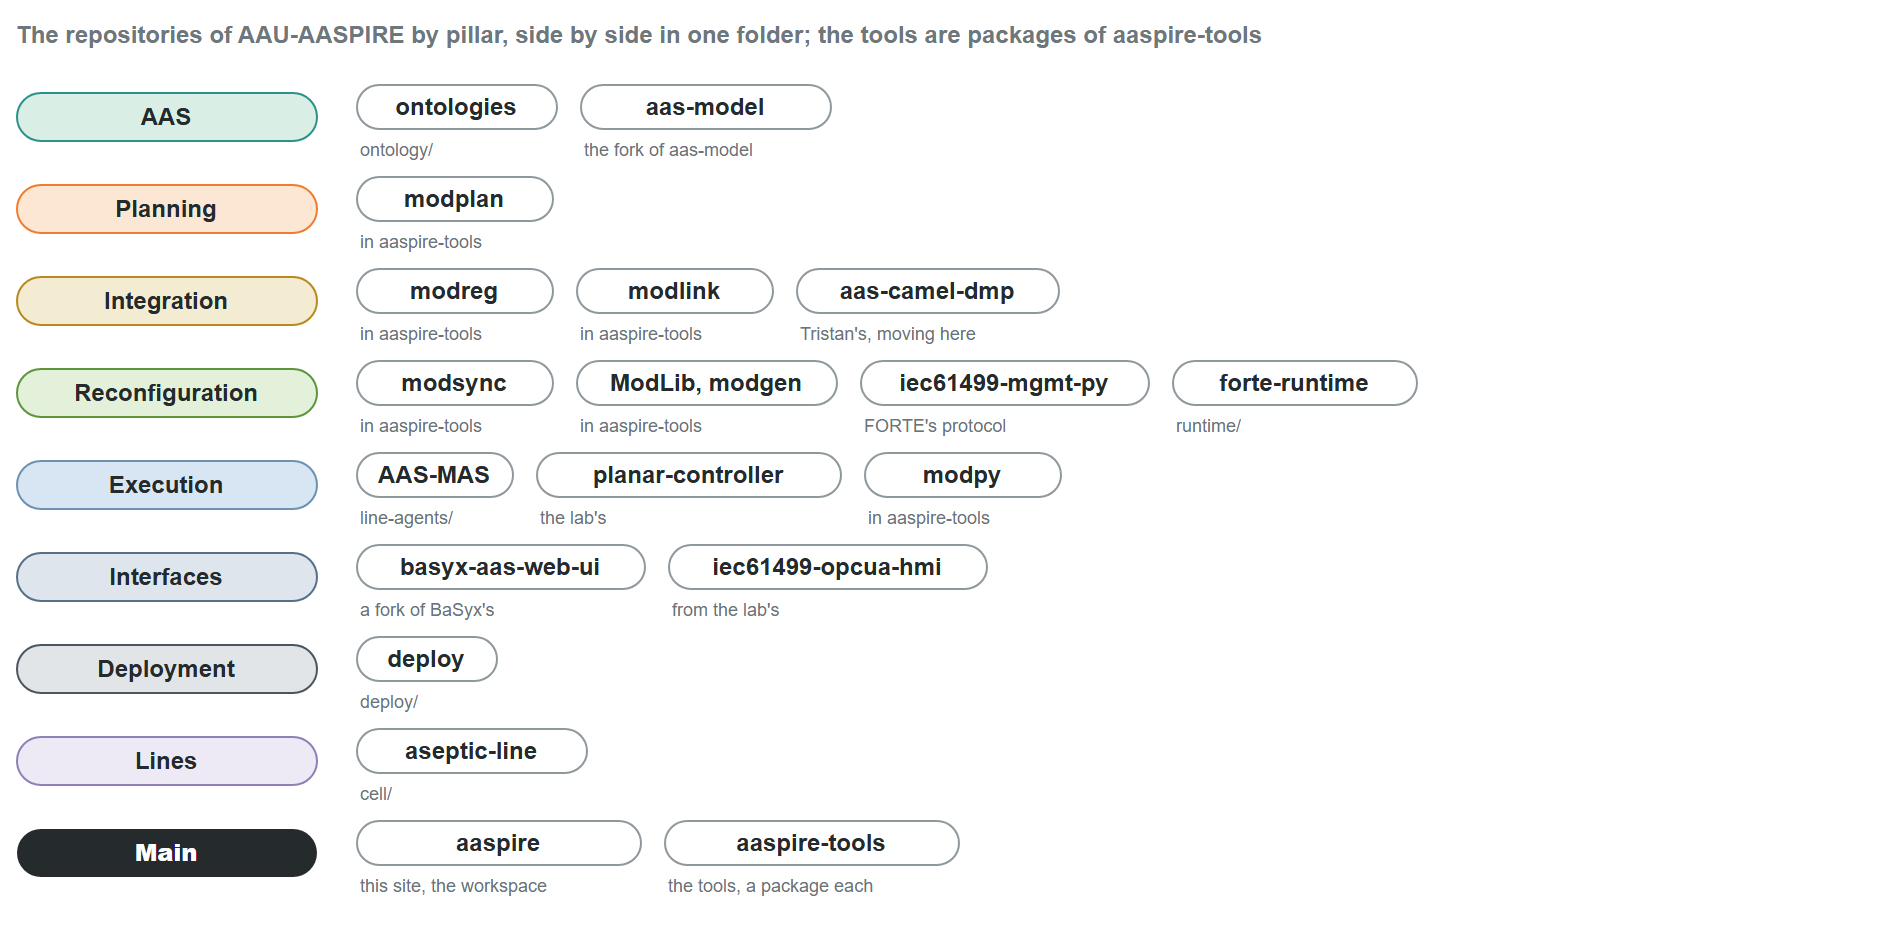
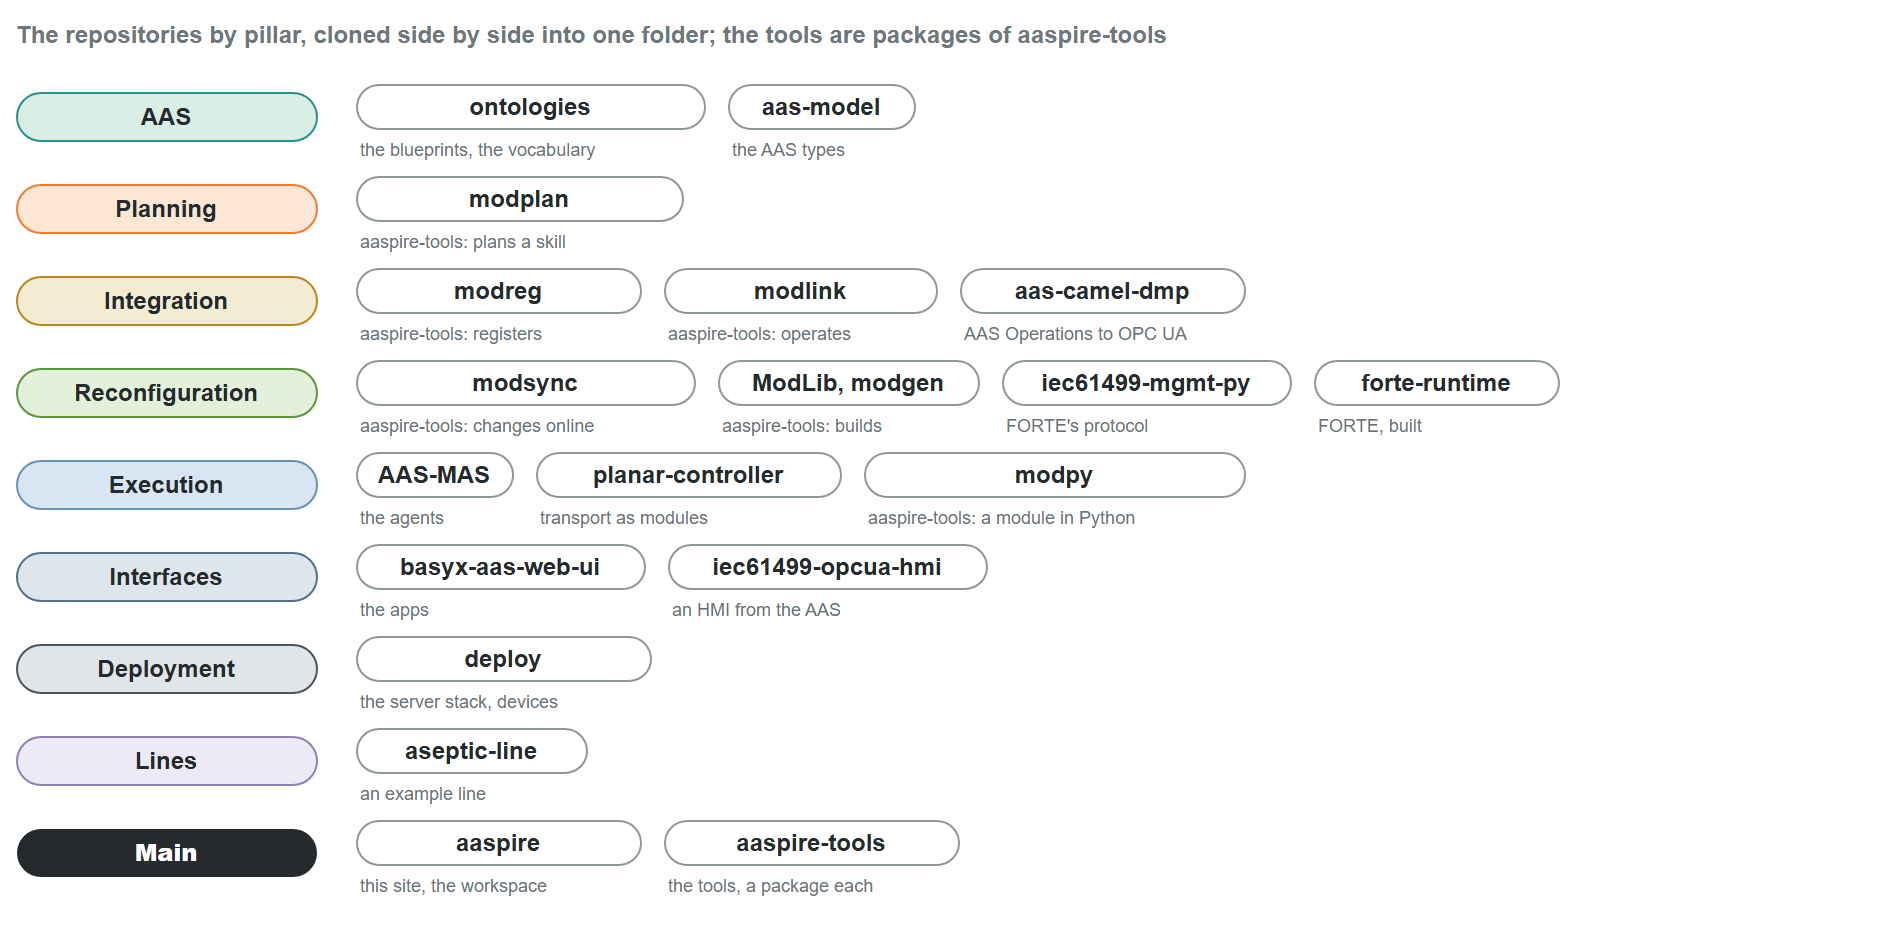
Glossary and repositories: general examples, what each repository holds

diff --git a/docs/overview/repositories.md b/docs/overview/repositories.md
@@ -1,53 +1,58 @@
 # Repositories
 
 AASPIRE is a set of repositories in the GitHub organization
-[AAU-AASPIRE](https://github.com/AAU-AASPIRE), grouped by pillar. The tools, used together, are one
-repository (aaspire-tools) with a package per tool; the table names each. Until 24 November 2026
-they shared one repository (AAUSmartProductionLab/iec61499-mgmt-py); each part was copied out with its
-history (the tools on 25 November, after a day in repositories of their own).
+[AAU-AASPIRE](https://github.com/AAU-AASPIRE), grouped by pillar. The tools that are used together
+(ModLib, modgen, modreg, modplan, modsync, modlink, modpy) are one repository,
+[aaspire-tools](https://github.com/AAU-AASPIRE/aaspire-tools), with a package per tool.
 
 <figure markdown="span">
-  [![The repositories of AAU-AASPIRE by pillar, and where each came from](../figures/repository-map.png)](../figures/repository-map.png)
-  <figcaption>The repositories by pillar, in the pillars' colours, and where each came from.</figcaption>
+  [![The repositories of AAU-AASPIRE by pillar, and what each holds](../figures/repository-map.png)](../figures/repository-map.png)
+  <figcaption>The repositories by pillar, in the pillars' colours, and what each holds.</figcaption>
 </figure>
 
 | Pillar | Repository | What it is | Page |
 | --- | --- | --- | --- |
 | AAS | [ontologies](https://github.com/AAU-AASPIRE/ontologies) | ARSO, APSO, AProSO, PPRL and the vocabulary | [Ontologies](../aas/ontologies.md) |
-| AAS | [aas-model](https://github.com/AAU-AASPIRE/aas-model) | The lab's AAS model: types, templates, instances (a placeholder until it merges upstream) | [aas-model](../aas/aas-model.md) |
+| AAS | [aas-model](https://github.com/AAU-AASPIRE/aas-model) | The AAS types in Python: product, process, module, component, line | [aas-model](../aas/aas-model.md) |
 | Planning | [aaspire-tools](https://github.com/AAU-AASPIRE/aaspire-tools): modplan | Plans a new skill from a module's capabilities | [modplan](../planning/modplan.md) |
-| Integration | [aaspire-tools](https://github.com/AAU-AASPIRE/aaspire-tools): modreg | Builds, checks, derives and publishes the AASs; the registration and skill service | [Registration service](../integration/registration.md) |
+| Integration | [aaspire-tools](https://github.com/AAU-AASPIRE/aaspire-tools): modreg | Builds, checks, derives and publishes the AASs; the registration service | [Registration service](../integration/registration.md) |
 | Integration | [aaspire-tools](https://github.com/AAU-AASPIRE/aaspire-tools): modlink | Runs a module's skills over OPC UA from its AAS | [modlink](../integration/modlink.md) |
-| Integration | [aas-camel-dmp](https://github.com/AAU-AASPIRE/aas-camel-dmp) | The data-mapping processor (Tristan's, moving here) | [DMP](../integration/dmp.md) |
+| Integration | [aas-camel-dmp](https://github.com/AAU-AASPIRE/aas-camel-dmp) | The data-mapping processor | [DMP](../integration/dmp.md) |
 | Reconfiguration | [aaspire-tools](https://github.com/AAU-AASPIRE/aaspire-tools): modsync | Keeps a running IEC 61499 program in step with its AAS | [modsync](../reconfiguration/modsync.md) |
 | Reconfiguration | [aaspire-tools](https://github.com/AAU-AASPIRE/aaspire-tools): ModLib, modgen | The IEC 61499 library for skill-based modules, and its generator | [Skill library](../reconfiguration/skill-lib.md) |
 | Reconfiguration | [iec61499-mgmt-py](https://github.com/AAU-AASPIRE/iec61499-mgmt-py) | The client of FORTE's management protocol | [Management library](../reconfiguration/mgmt.md) |
-| Reconfiguration | [forte-runtime](https://github.com/AAU-AASPIRE/forte-runtime) | FORTE for the PC and the Pi, our patches, the Pi installer | [FORTE runtime](../reconfiguration/runtime.md) |
+| Reconfiguration | [forte-runtime](https://github.com/AAU-AASPIRE/forte-runtime) | FORTE built for the PC and for edge devices, its patches, the device installer | [FORTE runtime](../reconfiguration/runtime.md) |
 | Execution | [AAS-MAS](https://github.com/AAU-AASPIRE/AAS-MAS) | The multi-agent orchestrator (package `lineagents`) | [Line agents](../execution/agents.md) |
-| Execution | [planar-controller](https://github.com/AAU-AASPIRE/planar-controller) | The planar table's controller | [Planar controller](../execution/planar-controller.md) |
-| Execution | [aaspire-tools](https://github.com/AAU-AASPIRE/aaspire-tools): modpy | A module run in Python, for the robots | |
-| Interfaces | [basyx-aas-web-ui](https://github.com/AAU-AASPIRE/basyx-aas-web-ui) | The BaSyx web UI, our fork: Process Sequence, the skill editor, the Configurator | [Web UI](../interfaces/web-ui.md) |
-| Interfaces | [iec61499-opcua-hmi](https://github.com/AAU-AASPIRE/iec61499-opcua-hmi) | The modules' HMI in Python, with its module simulator (from the lab's) | |
-| Deployment | [deploy](https://github.com/AAU-AASPIRE/deploy) | The lab stack, the Pi tooling, the bench tools | [Deployment](../deployment/deploy.md) |
-| Lines | [aseptic-line](https://github.com/AAU-AASPIRE/aseptic-line) | The lab's line: specs, generated programs, example AASs, evaluation | [The aseptic line](../lines/aseptic-line.md) |
-| Main | [aaspire](https://github.com/AAU-AASPIRE/aaspire) | This site, the repositories' map, the workspace | [This site](../how-to/this-site.md) |
+| Execution | [planar-controller](https://github.com/AAU-AASPIRE/planar-controller) | A planar motor table offered as modules | [Planar controller](../execution/planar-controller.md) |
+| Execution | [aaspire-tools](https://github.com/AAU-AASPIRE/aaspire-tools): modpy | A module written in Python, for controllers that do not run IEC 61499 (robots) | |
+| Interfaces | [basyx-aas-web-ui](https://github.com/AAU-AASPIRE/basyx-aas-web-ui) | The BaSyx web UI with AASPIRE's apps: the Planner, the Skill Editor, the Configurator | [Web UI](../interfaces/web-ui.md) |
+| Interfaces | [iec61499-opcua-hmi](https://github.com/AAU-AASPIRE/iec61499-opcua-hmi) | An HMI for any module, built from its AAS, with a module simulator | |
+| Deployment | [deploy](https://github.com/AAU-AASPIRE/deploy) | The server stack, the edge device tooling, bench tools | [Deployment](../deployment/deploy.md) |
+| Lines | [aseptic-line](https://github.com/AAU-AASPIRE/aseptic-line) | An example line: specs, generated programs, AASs, simulators, evaluation | [A line's repository](../lines/aseptic-line.md) |
+| Main | [aaspire](https://github.com/AAU-AASPIRE/aaspire) | This site, the repositories' map, the workspace scripts | [This site](../how-to/this-site.md) |
+
+## Get them all
+
+Clone every repository side by side into one folder; the workspace script does it and installs the
+Python parts editable:
+
+```powershell
+mkdir AAU-AASPIRE; cd AAU-AASPIRE
+git clone https://github.com/AAU-AASPIRE/aaspire.git
+aaspire\workspace\clone.ps1 -Install          # or aaspire/workspace/clone.sh on Linux
+```
 
 ## How they come together
 
-- **Side by side, no submodules.** For development every repository is cloned into one folder
-  (`AAU-AASPIRE/<repository>`) by `aaspire/workspace/clone.ps1` (or `clone.sh`), which also installs the
-  Python parts editable. Each finds the others beside it: the tools the ontologies, modgen the line's
-  specs, the Pi tooling FORTE, the lab stack the DMP and the web UI for its images.
+- **Side by side, no submodules.** Each repository finds the others beside it: the tools find the
+  ontologies, modgen a line's specs (in `aseptic-line/cell`, `./cell`, or `$MODGEN_CELL`), the device
+  tooling FORTE, the server stack the DMP and the web UI for its images.
 - **Dependencies by repository.** Each Python part declares the others it needs as Git dependencies
-  of the organization's repositories; the lab stack's images are built from the folder that holds them.
-- **Versions**: the parts by SemVer, `aaspire` by date (`2026.11` with the CIRP paper, `2027.01` with
-  the demo).
+  of the organization's repositories; the server stack's images are built from the folder that holds
+  them.
+- **Versions**: the parts by SemVer, `aaspire` by date (`2026.11`, `2027.01`, ...).
 
-Pinned, not the lab's: Eclipse 4diac FORTE, BaSyx's images, unified-planning, the IDTA templates.
+Pinned, from outside: Eclipse 4diac FORTE, the BaSyx images, unified-planning, the IDTA templates.
 
-## The working notes
-
-The notes the work was done by (the design log, the plans, the decisions, onboarding) are in the
-private repository `aaspire-internal`, for the organization's members. This site is written from them
-for a reader who was not there; the reference documents (the models, the module rules, the tools) are
-its [Reference](../reference/aas-models.md) section.
+The reference documents behind the pages (the models, the module rules, the tools) are this site's
+[Reference](../reference/aas-models.md) section.

diff --git a/docs/overview/glossary.md b/docs/overview/glossary.md
@@ -1,28 +1,27 @@
 # Glossary
 
 One word for one thing. The words in the left column are the ones this site uses; the right column
-lists what the same thing was called in older notes, papers and code. The glossary is to be settled
-with the colleagues who build the centralized orchestrator.
+lists what the same thing is often called elsewhere, in papers, standards and code.
 
 ## The line and its parts
 
 | Word | Means | Also called |
 | --- | --- | --- |
-| **resource** | Anything with an AAS that offers skills: a line, a module, a component, the planar table | asset, station, module |
-| **module** | A resource with its own controller: an IEC 61499 program on FORTE, operated over OPC UA. The filling and the stoppering module are modules | station |
-| **component** | A part of a module with its own AAS: a linear axis, a pump, a scale | equipment |
+| **resource** | Anything with an AAS that offers skills: a line, a module, a component, a transport system | asset, station, module |
+| **module** | A resource with its own controller, operated over OPC UA: an IEC 61499 program on FORTE, or any controller that offers the same interface | station |
+| **component** | A part of a module with its own AAS: a linear axis, a pump, a gripper, a sensor | equipment |
 | **equipment item** | In the program, the block that owns a component's IO points (`EQ_<Item>`) | equipment IO block |
-| **transfer point** | A place on the line where a product is handed over, e.g. a shuttle's pose at a module | station |
-| **shuttle** | An xbot of the planar table, a resource of its own that carries a product | xbot, mover |
+| **transfer point** | A place on the line where a product is handed over, e.g. where a carrier stops at a module | station |
+| **shuttle** | A carrier of a transport system, a resource of its own that carries a product (e.g. an xbot of a planar motor table) | xbot, mover, carrier |
 | **line** | The resources together, with an AAS of its own (`ProductionSystem`) | cell, production system |
 
 ## Skills and capabilities
 
 | Word | Means | Also called |
 | --- | --- | --- |
-| **capability** | What a resource can do (offered) or what a product's step needs (required), with properties and their ranges: Filling with FillVolume 0.5 to 10 mL | function |
+| **capability** | What a resource can do (offered) or what a product's step needs (required), with properties and their ranges, e.g. Screwing with Torque 0.5 to 5 Nm | function |
 | **skill** | How a capability is invoked: commands (Start, Stop, Abort, Reset) with parameters and results, and a state | service |
-| **skill primitive** | A skill of a component: one equipment command until a sensor or a time. A block type in the program (`SK_<Skill>`) | primitive, building block |
+| **skill primitive** | A skill of a component: one equipment command until a sensor condition or a time. A block type in the program (`SK_<Skill>`) | primitive, building block |
 | **composite skill** | A skill made of other skills: a flow of primitives. In the program a subapplication of library and primitive instances | module level skill |
 | **resource commands** | Occupy, Release, Reset, Start, Stop, Abort, Clear: the module's own commands, skills of the kind ModuleControl | module skills |
 | **Built, Described** | Whether the running program carries a composite skill out (`Deployment` in the Skills submodel), or only its AAS describes it | deployed, planned |
@@ -35,15 +34,15 @@ with the colleagues who build the centralized orchestrator.
 | **recipe** | A product's steps without bindings: which capabilities, in which order, with which values (the Production Sequence of the product AAS) | plan, process sequence |
 | **process** | The recipe bound to one line's resources and skills; its AAS is the process AAS | plan, production task |
 | **order** | How many of a product, now: it starts a product agent per unit | job |
-| **orchestrator** | What decides which resource does which step, and when: centralized (behaviour trees) or multi-agent (the agents) | controller, MES |
+| **orchestrator** | What decides which resource does which step, and when: centralized (a behaviour tree) or multi-agent (the agents) | controller, MES |
 
 ## Descriptions
 
 | Word | Means | Also called |
 | --- | --- | --- |
 | **AAS** | Asset Administration Shell (IEC 63278): a resource's, product's or process's digital twin as submodels | shell, digital twin |
-| **profile** | An AAS as the pydantic dump of its aas-model type, without what the type says anyway; what a vendor writes and the registration service builds from | description, minimal JSON configuration |
-| **module spec** | The YAML a vendor-side generator makes a module from (`cell/modules/*.yaml`). Not needed once the module is delivered | spec, description |
+| **profile** | An AAS as the pydantic dump of its aas-model type, without what the type says anyway; what you write and the registration service builds the AAS from | description, minimal JSON configuration |
+| **module spec** | The YAML a module's program is generated from (`modules/<module>.yaml` in a line's repository). Not needed once the module is delivered | spec, description |
 | **module rules** | How a module's program is built so the tools can read and change it; a module names its rule set in its AAS (`RuleSet`) | contract |
 | **the integrator's record** | What was built, in detail: every instance with its block type and type hash, the change log. Kept beside the AAS | Control Configuration |
 
@@ -51,7 +50,7 @@ with the colleagues who build the centralized orchestrator.
 
 | Word | Means |
 | --- | --- |
-| **FORTE** | Eclipse 4diac's IEC 61499 runtime; here built with every module's block types, for Windows and for the Raspberry Pi |
+| **FORTE** | Eclipse 4diac's IEC 61499 runtime, built with your modules' block types: for Windows (IO simulated) and for 64-bit Linux edge devices (real IO) |
 | **function block** | A block of an IEC 61499 program: basic (an ECC and algorithms), composite (a network inside) or a service interface block |
 | **application, resource** | An IEC 61499 program (one per module) and the part of a device it runs on (`RES`) |
 | **management protocol** | FORTE's port 61499: create, connect, write, read, start, query. How programs are deployed and changed online |
@@ -66,4 +65,4 @@ with the colleagues who build the centralized orchestrator.
 | **registration service** | Builds an AAS from a profile, checks it against the ontology, publishes it; finds modules on the network (`modreg serve`) |
 | **DMP** | The data-mapping processor: carries an AAS Operation to a module's OPC UA method and the module's values to InfluxDB (`aas-camel-dmp`) |
 | **AID, AIMC** | Asset Interfaces Description (where the endpoint and each action and property are) and Asset Interfaces Mapping Configuration (which interface element feeds which data), IDTA submodels |
-| **Variables** | aas-model's submodel of a resource's state, measurements and log as time series, the values in InfluxDB |
+| **Variables** | aas-model's submodel of a resource's state, measurements and log as time series; the values are in InfluxDB |
